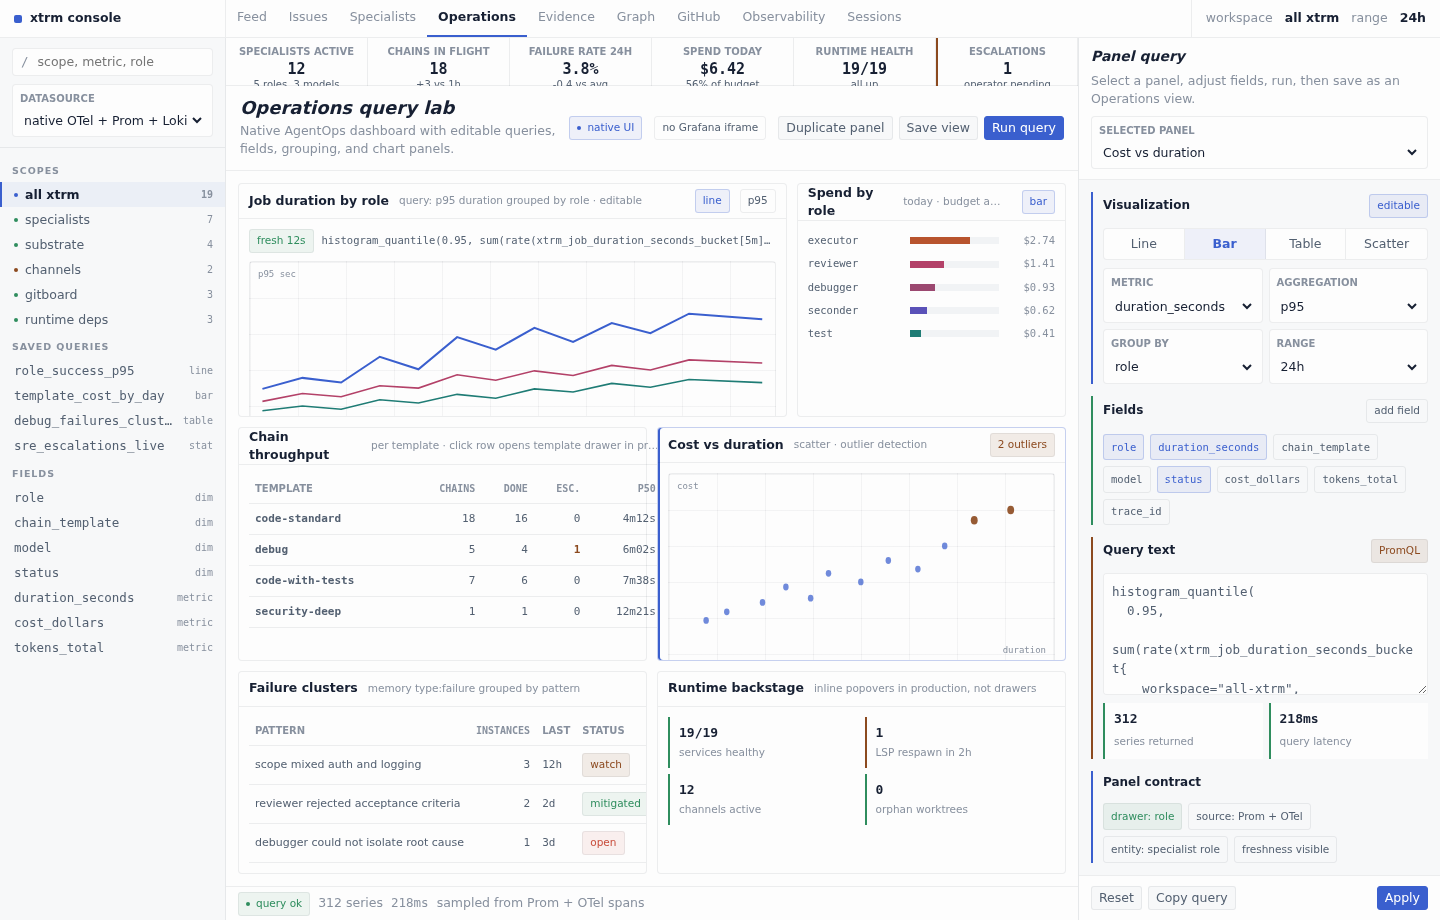
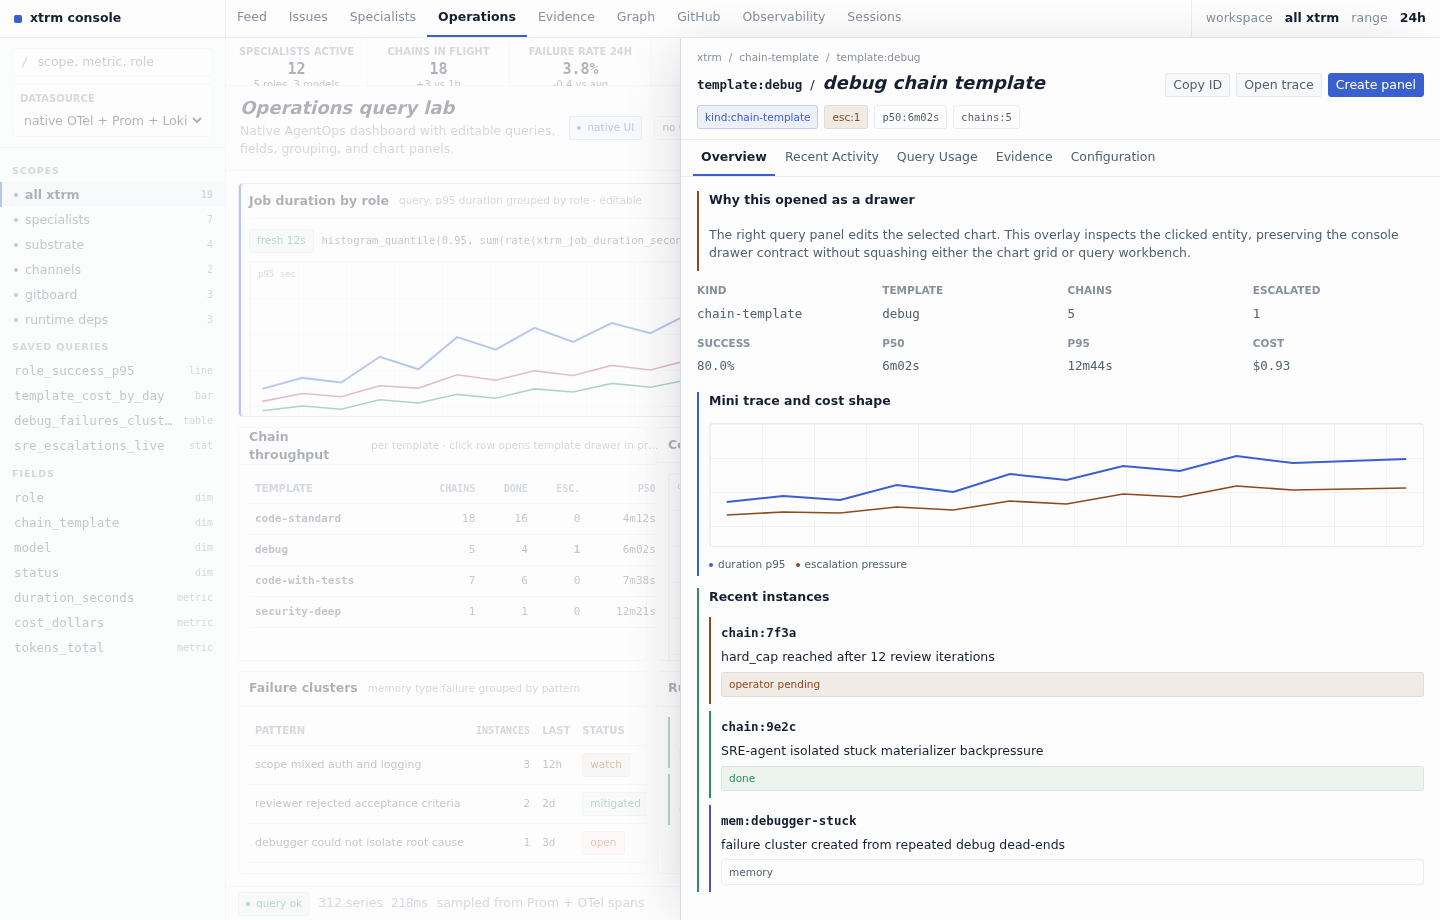
feat(gitboard): show operations drawer overlay mock

diff --git a/apps/gitboard/design-mocks/operations-query-lab.html b/apps/gitboard/design-mocks/operations-query-lab.html
@@ -622,6 +622,154 @@
       padding: 10px 12px;
     }
 
+    .drawer {
+      bottom: 0;
+      display: none;
+      grid-template-columns: minmax(0, 1fr) minmax(560px, min(56vw, 760px));
+      left: 0;
+      pointer-events: none;
+      position: fixed;
+      right: 0;
+      top: 38px;
+      z-index: 10;
+    }
+    .drawer.is-open { display: grid; }
+    .drawer-scrim {
+      background: rgba(253, 253, 253, 0.66);
+      pointer-events: auto;
+    }
+    .drawer-shell {
+      background: var(--surface-1);
+      border-left: 1px solid var(--line);
+      box-shadow: var(--shadow-drawer);
+      display: grid;
+      grid-template-rows: auto auto minmax(0, 1fr);
+      min-width: 0;
+      pointer-events: auto;
+    }
+    .drawer-header {
+      border-bottom: 1px solid var(--line-subtle);
+      display: grid;
+      gap: 8px;
+      padding: 12px 16px 10px;
+    }
+    .drawer-breadcrumb {
+      color: var(--text-muted);
+      display: flex;
+      gap: 7px;
+      font-size: 10.5px;
+    }
+    .drawer-title {
+      align-items: baseline;
+      display: flex;
+      gap: 8px;
+      min-width: 0;
+    }
+    .drawer-title h2 {
+      flex: 1;
+      font-size: 18px;
+      font-style: italic;
+      line-height: 1.15;
+      margin: 0;
+      min-width: 0;
+      overflow: hidden;
+      text-overflow: ellipsis;
+      white-space: nowrap;
+    }
+    .drawer-actions {
+      align-items: center;
+      display: flex;
+      gap: 6px;
+    }
+    .drawer-tabs {
+      border-bottom: 1px solid var(--line-subtle);
+      display: flex;
+      gap: 2px;
+      overflow-x: auto;
+      padding: 0 12px;
+    }
+    .drawer-tab {
+      border-bottom: 2px solid transparent;
+      color: var(--text-secondary);
+      height: 36px;
+      padding: 0 8px;
+      white-space: nowrap;
+    }
+    .drawer-tab.is-active {
+      border-bottom-color: var(--accent);
+      color: var(--text-primary);
+      font-weight: 650;
+    }
+    .drawer-body {
+      display: grid;
+      gap: 12px;
+      min-height: 0;
+      overflow: auto;
+      padding: 14px 16px 28px;
+    }
+    .info-rail {
+      border-left: 2px solid var(--accent);
+      display: grid;
+      gap: 7px;
+      padding-left: 10px;
+    }
+    .info-rail.warn { border-left-color: var(--blocked); }
+    .info-rail.ready { border-left-color: var(--ready); }
+    .info-rail.purple { border-left-color: var(--purple); }
+    .kv-grid {
+      display: grid;
+      gap: 8px 14px;
+      grid-template-columns: repeat(4, minmax(0, 1fr));
+    }
+    .kv {
+      display: grid;
+      gap: 2px;
+      min-width: 0;
+    }
+    .kv label {
+      color: var(--text-muted);
+      font-size: 10.5px;
+      font-weight: 720;
+      text-transform: uppercase;
+    }
+    .kv span {
+      color: var(--text-secondary);
+      font-family: var(--font-mono);
+      overflow: hidden;
+      text-overflow: ellipsis;
+      white-space: nowrap;
+    }
+    .trace-mini {
+      background:
+        linear-gradient(to right, rgba(15, 23, 42, 0.045) 1px, transparent 1px),
+        linear-gradient(to bottom, rgba(15, 23, 42, 0.045) 1px, transparent 1px);
+      background-size: 52px 34px;
+      border: 1px solid var(--line-subtle);
+      border-radius: 4px;
+      min-height: 116px;
+      position: relative;
+    }
+    .trace-mini svg {
+      display: block;
+      height: 116px;
+      width: 100%;
+    }
+    .entity-row {
+      background: transparent;
+      border: 0;
+      border-left: 2px solid var(--ready);
+      color: inherit;
+      display: grid;
+      gap: 4px;
+      min-width: 0;
+      padding: 7px 0 7px 10px;
+      text-align: left;
+      width: 100%;
+    }
+    .entity-row.warn { border-left-color: var(--blocked); }
+    .entity-row.purple { border-left-color: var(--purple); }
+    .entity-row:hover { background: rgba(15, 23, 42, 0.025); }
+
     @media (max-width: 1280px) {
       .app { grid-template-columns: 54px minmax(0, 1fr) 342px; }
       .brand { width: 54px; }
@@ -634,6 +782,8 @@
       .panel-grid { grid-template-columns: repeat(2, minmax(0, 1fr)); }
       .span-2, .span-3, .span-4 { grid-column: span 2; }
       .pulse-strip { grid-template-columns: repeat(3, minmax(0, 1fr)); }
+      .drawer { grid-template-columns: 0 minmax(420px, 100vw); }
+      .kv-grid { grid-template-columns: repeat(2, minmax(0, 1fr)); }
     }
   </style>
 </head>
@@ -770,10 +920,10 @@
             <table class="table">
               <thead><tr><th>Template</th><th class="num">Chains</th><th class="num">Done</th><th class="num">Esc.</th><th class="num">p50</th></tr></thead>
               <tbody>
-                <tr><td class="id">code-standard</td><td class="num">18</td><td class="num">16</td><td class="num">0</td><td class="num">4m12s</td></tr>
-                <tr><td class="id">debug</td><td class="num">5</td><td class="num">4</td><td class="num" style="color:var(--blocked);font-weight:720">1</td><td class="num">6m02s</td></tr>
-                <tr><td class="id">code-with-tests</td><td class="num">7</td><td class="num">6</td><td class="num">0</td><td class="num">7m38s</td></tr>
-                <tr><td class="id">security-deep</td><td class="num">1</td><td class="num">1</td><td class="num">0</td><td class="num">12m21s</td></tr>
+                <tr data-entity-kind="chain-template" data-entity-id="template:code-standard" data-entity-title="code-standard chain template"><td class="id">code-standard</td><td class="num">18</td><td class="num">16</td><td class="num">0</td><td class="num">4m12s</td></tr>
+                <tr data-entity-kind="chain-template" data-entity-id="template:debug" data-entity-title="debug chain template"><td class="id">debug</td><td class="num">5</td><td class="num">4</td><td class="num" style="color:var(--blocked);font-weight:720">1</td><td class="num">6m02s</td></tr>
+                <tr data-entity-kind="chain-template" data-entity-id="template:code-with-tests" data-entity-title="code-with-tests template"><td class="id">code-with-tests</td><td class="num">7</td><td class="num">6</td><td class="num">0</td><td class="num">7m38s</td></tr>
+                <tr data-entity-kind="chain-template" data-entity-id="template:security-deep" data-entity-title="security-deep template"><td class="id">security-deep</td><td class="num">1</td><td class="num">1</td><td class="num">0</td><td class="num">12m21s</td></tr>
               </tbody>
             </table>
           </div>
@@ -815,9 +965,9 @@
             <table class="table">
               <thead><tr><th>Pattern</th><th class="num">Instances</th><th>Last</th><th>Status</th></tr></thead>
               <tbody>
-                <tr><td>scope mixed auth and logging</td><td class="num">3</td><td class="mono">12h</td><td><span class="chip warn">watch</span></td></tr>
-                <tr><td>reviewer rejected acceptance criteria</td><td class="num">2</td><td class="mono">2d</td><td><span class="chip ready">mitigated</span></td></tr>
-                <tr><td>debugger could not isolate root cause</td><td class="num">1</td><td class="mono">3d</td><td><span class="chip fail">open</span></td></tr>
+                <tr data-entity-kind="memory" data-entity-id="mem:scope-mixed" data-entity-title="scope mixed auth and logging"><td>scope mixed auth and logging</td><td class="num">3</td><td class="mono">12h</td><td><span class="chip warn">watch</span></td></tr>
+                <tr data-entity-kind="memory" data-entity-id="mem:reviewer-rejected" data-entity-title="reviewer rejected acceptance criteria"><td>reviewer rejected acceptance criteria</td><td class="num">2</td><td class="mono">2d</td><td><span class="chip ready">mitigated</span></td></tr>
+                <tr data-entity-kind="memory" data-entity-id="mem:debugger-stuck" data-entity-title="debugger could not isolate root cause"><td>debugger could not isolate root cause</td><td class="num">1</td><td class="mono">3d</td><td><span class="chip fail">open</span></td></tr>
               </tbody>
             </table>
           </div>
@@ -927,11 +1077,85 @@
         <button class="button primary">Apply</button>
       </footer>
     </aside>
+
+    <aside class="drawer is-open" id="entityDrawer" aria-label="Entity drawer">
+      <button class="drawer-scrim" id="drawerScrim" aria-label="Close drawer"></button>
+      <section class="drawer-shell">
+        <header class="drawer-header">
+          <div class="drawer-breadcrumb"><span>xtrm</span><span>/</span><span id="drawerKind">chain-template</span><span>/</span><span id="drawerId">template:debug</span></div>
+          <div class="drawer-title">
+            <span class="id" id="drawerIdTitle">template:debug</span>
+            <span>/</span>
+            <h2 id="drawerTitle">debug chain template</h2>
+            <div class="drawer-actions">
+              <button class="button">Copy ID</button>
+              <button class="button">Open trace</button>
+              <button class="button primary">Create panel</button>
+            </div>
+          </div>
+          <div class="field-list">
+            <span class="chip active">kind:chain-template</span>
+            <span class="chip warn">esc:1</span>
+            <span class="chip mono">p50:6m02s</span>
+            <span class="chip mono">chains:5</span>
+          </div>
+        </header>
+
+        <nav class="drawer-tabs" aria-label="Drawer tabs">
+          <button class="drawer-tab is-active">Overview</button>
+          <button class="drawer-tab">Recent Activity</button>
+          <button class="drawer-tab">Query Usage</button>
+          <button class="drawer-tab">Evidence</button>
+          <button class="drawer-tab">Configuration</button>
+        </nav>
+
+        <div class="drawer-body">
+          <section class="info-rail warn">
+            <h3 style="margin:0;font-size:12.5px">Why this opened as a drawer</h3>
+            <p style="margin:0;color:var(--text-secondary)">The right query panel edits the selected chart. This overlay inspects the clicked entity, preserving the console drawer contract without squashing either the chart grid or query workbench.</p>
+          </section>
+
+          <div class="kv-grid">
+            <div class="kv"><label>kind</label><span>chain-template</span></div>
+            <div class="kv"><label>template</label><span>debug</span></div>
+            <div class="kv"><label>chains</label><span>5</span></div>
+            <div class="kv"><label>escalated</label><span>1</span></div>
+            <div class="kv"><label>success</label><span>80.0%</span></div>
+            <div class="kv"><label>p50</label><span>6m02s</span></div>
+            <div class="kv"><label>p95</label><span>12m44s</span></div>
+            <div class="kv"><label>cost</label><span>$0.93</span></div>
+          </div>
+
+          <section class="info-rail">
+            <h3 style="margin:0;font-size:12.5px">Mini trace and cost shape</h3>
+            <div class="trace-mini">
+              <svg viewBox="0 0 680 116" preserveAspectRatio="none" aria-label="Debug template mini trace">
+                <polyline points="16,78 70,72 124,76 178,61 232,68 286,50 340,56 394,42 448,47 502,32 556,39 664,35" fill="none" stroke="var(--accent)" stroke-width="2" vector-effect="non-scaling-stroke"/>
+                <polyline points="16,91 70,88 124,89 178,83 232,86 286,77 340,80 394,70 448,73 502,62 556,66 664,64" fill="none" stroke="var(--blocked)" stroke-width="1.6" vector-effect="non-scaling-stroke"/>
+              </svg>
+            </div>
+            <div class="legend"><span><i class="dot accent"></i>duration p95</span><span><i class="dot warn"></i>escalation pressure</span></div>
+          </section>
+
+          <section class="info-rail ready">
+            <h3 style="margin:0;font-size:12.5px">Recent instances</h3>
+            <button class="entity-row warn"><span class="id">chain:7f3a</span><span>hard_cap reached after 12 review iterations</span><span class="chip warn">operator pending</span></button>
+            <button class="entity-row"><span class="id">chain:9e2c</span><span>SRE-agent isolated stuck materializer backpressure</span><span class="chip ready">done</span></button>
+            <button class="entity-row purple"><span class="id">mem:debugger-stuck</span><span>failure cluster created from repeated debug dead-ends</span><span class="chip">memory</span></button>
+          </section>
+        </div>
+      </section>
+    </aside>
   </div>
 
   <script>
     const panels = Array.from(document.querySelectorAll(".panel[data-panel]"));
     const panelSelect = document.getElementById("panelSelect");
+    const drawer = document.getElementById("entityDrawer");
+    const drawerKind = document.getElementById("drawerKind");
+    const drawerId = document.getElementById("drawerId");
+    const drawerIdTitle = document.getElementById("drawerIdTitle");
+    const drawerTitle = document.getElementById("drawerTitle");
 
     panels.forEach((panel, index) => {
       panel.addEventListener("click", () => {
@@ -959,6 +1183,24 @@
         target.classList.add("is-selected");
         target.scrollIntoView({ block: "nearest", behavior: "smooth" });
       });
+    });
+
+    document.querySelectorAll("[data-entity-kind]").forEach((row) => {
+      row.addEventListener("click", (event) => {
+        event.stopPropagation();
+        const kind = row.dataset.entityKind || "entity";
+        const id = row.dataset.entityId || "entity:unknown";
+        const title = row.dataset.entityTitle || id;
+        drawerKind.textContent = kind;
+        drawerId.textContent = id;
+        drawerIdTitle.textContent = id;
+        drawerTitle.textContent = title;
+        drawer.classList.add("is-open");
+      });
+    });
+
+    document.getElementById("drawerScrim").addEventListener("click", () => {
+      drawer.classList.remove("is-open");
     });
   </script>
 </body>